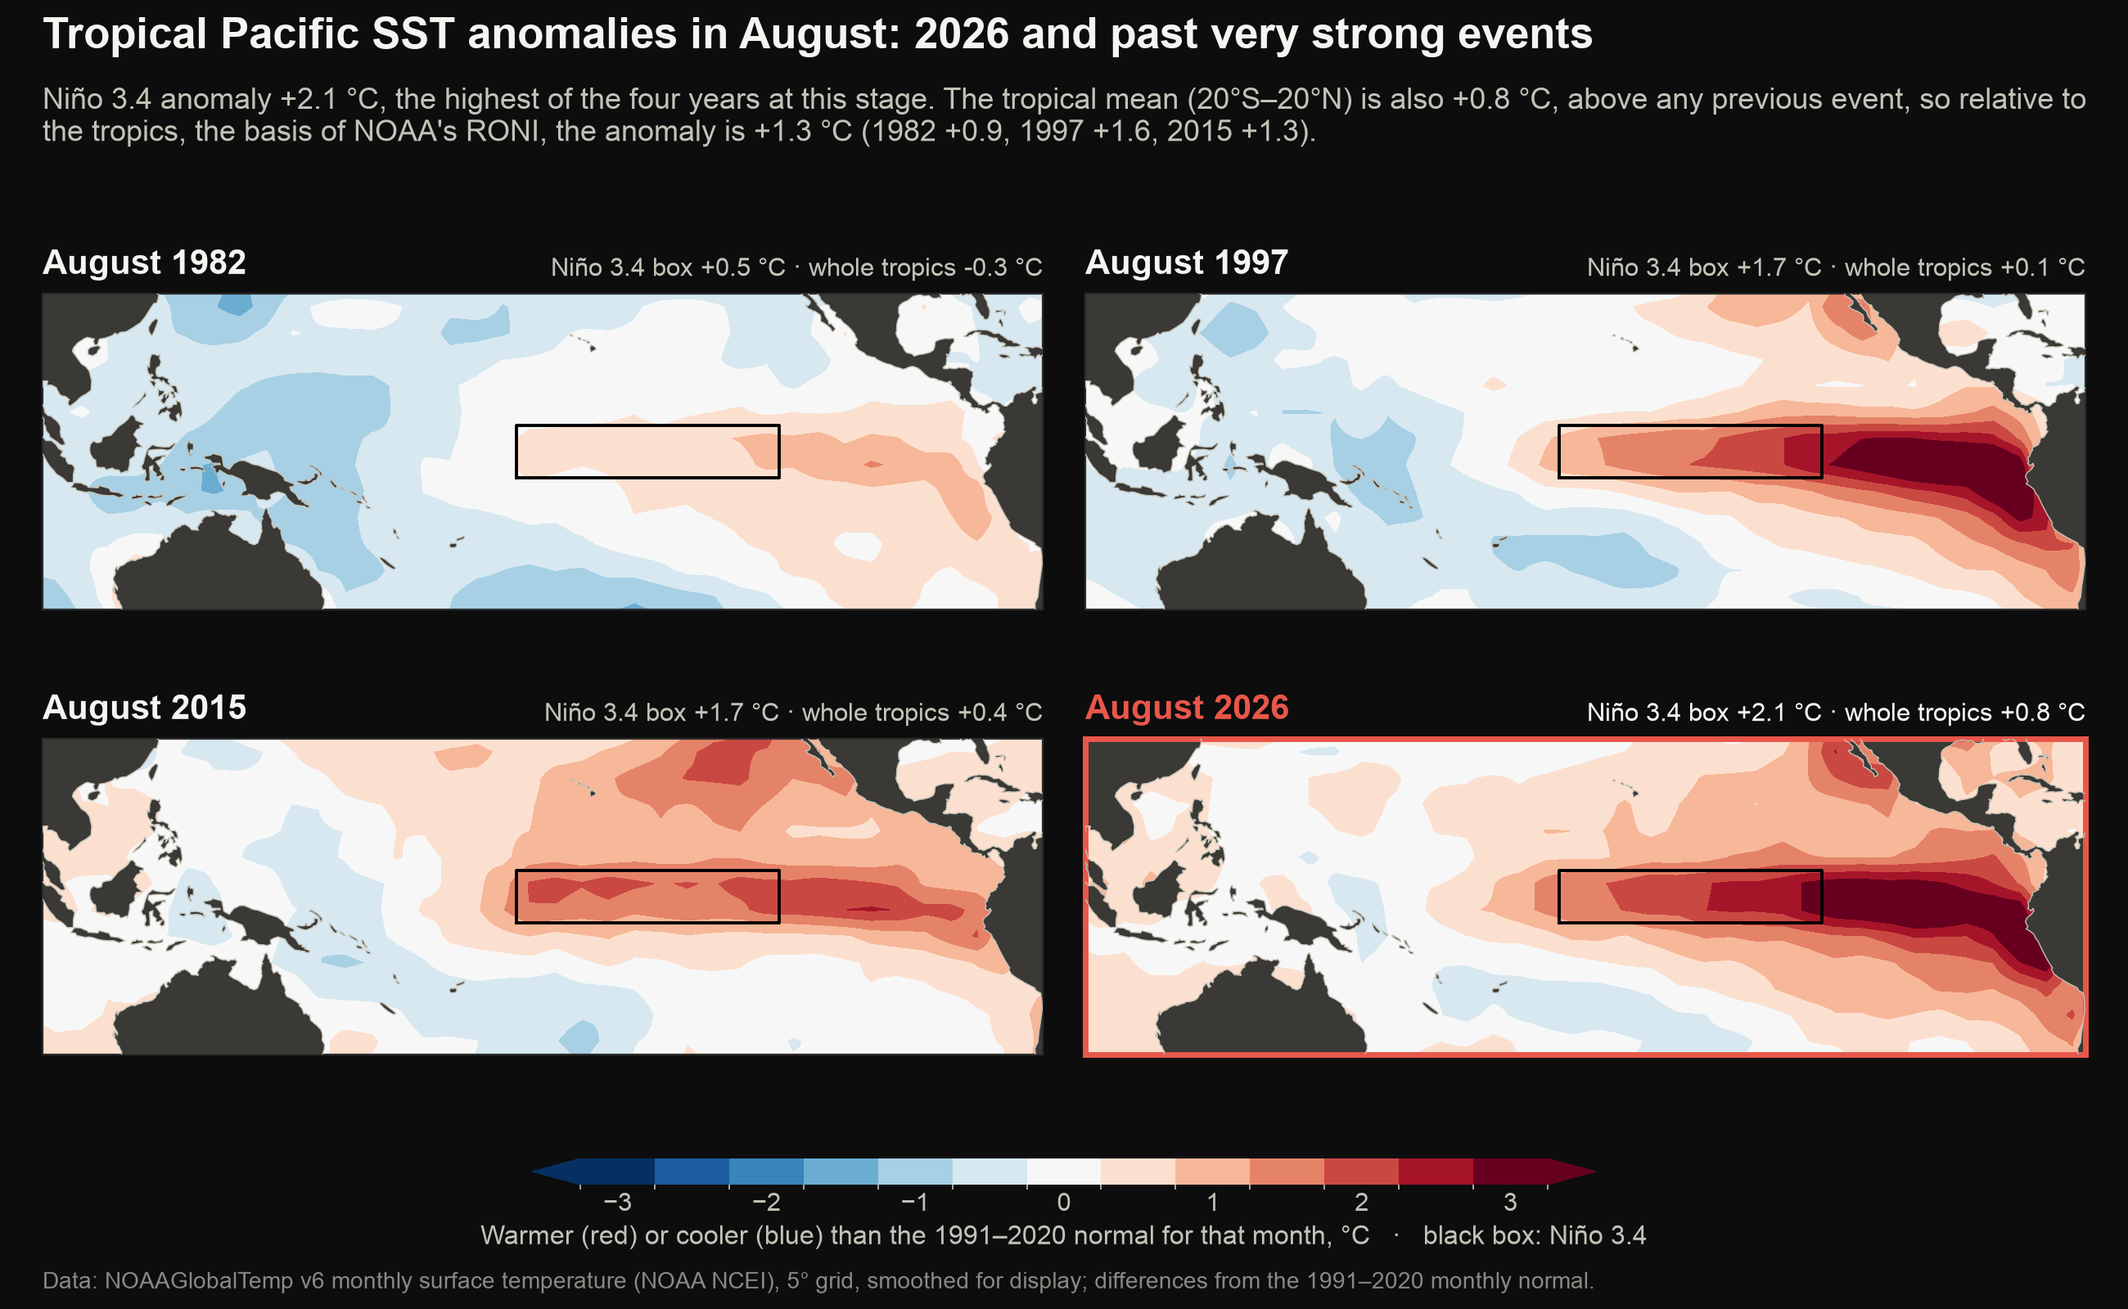
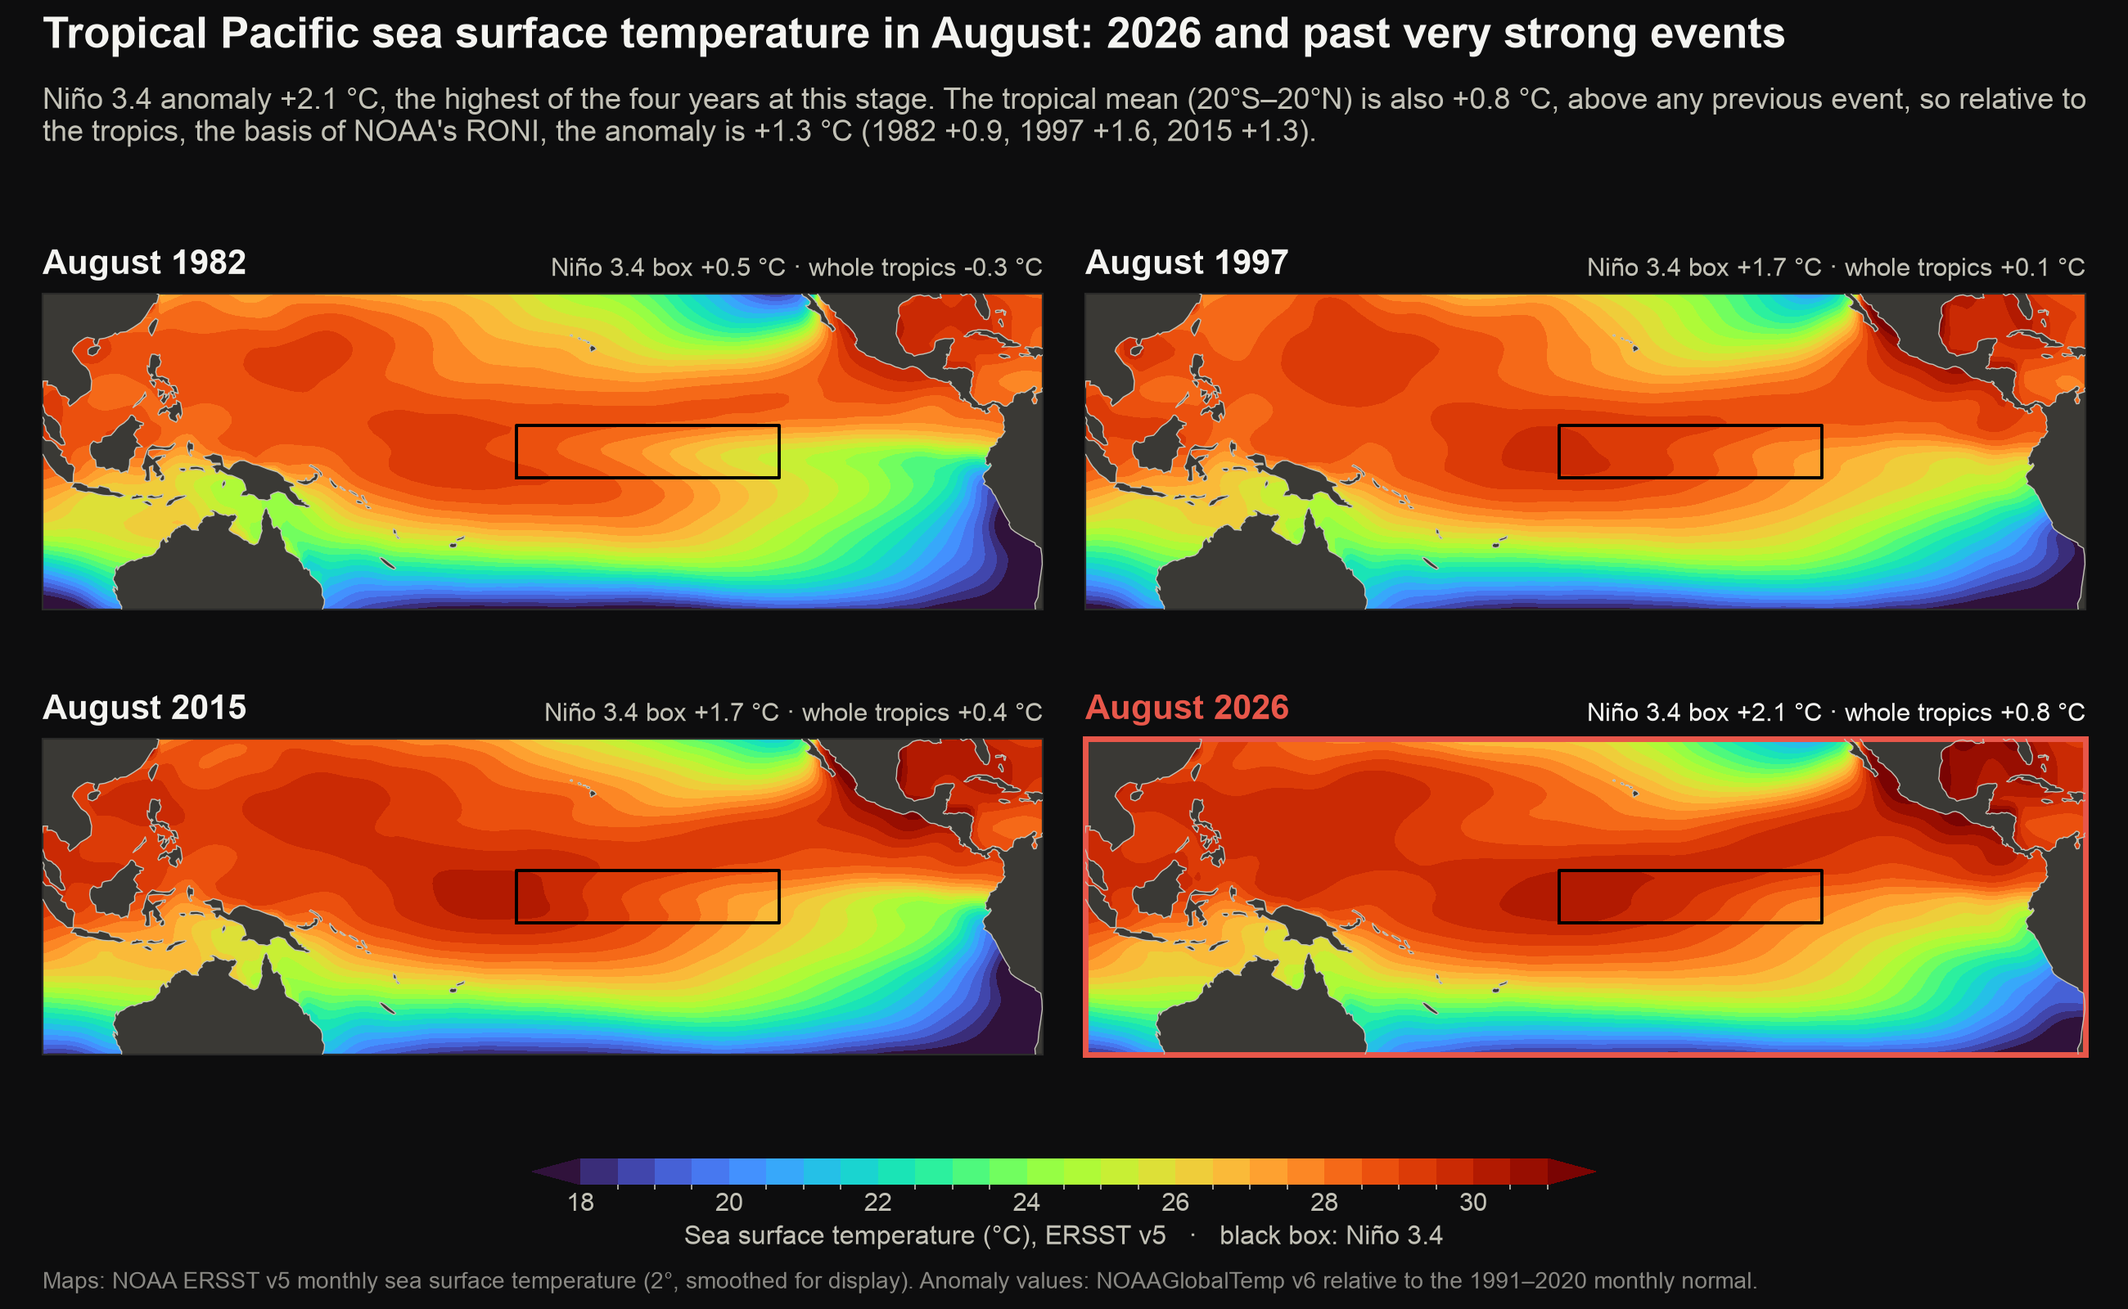
Use the rainbow temperature scale for ocean temperature figures
Surface maps, subsurface sections and both Hovmöllers now show actual ocean
temperature in the same turbo scale as the animations (shared temp_cmap);
headline numbers remain anomalies relative to 1991-2020.

diff --git a/compare2_surface.py b/compare2_surface.py
@@ -20,7 +20,7 @@ import pandas as pd
 import matplotlib.pyplot as plt
 from matplotlib.colors import BoundaryNorm
 
-from enso_common import (FIG_DIR, COLORS, NINO_BOXES, add_source, add_title, apply_style, save)
+from enso_common import (temp_cmap, FIG_DIR, COLORS, NINO_BOXES, add_source, add_title, apply_style, save)
 from enso_stats import load_gridded
 
 
@@ -49,19 +49,19 @@ def main():
     mon = temp.where(temp["time.month"] == month, drop=True)
     normal = mon.sel(time=slice("1991", "2020")).mean("time")
     now = args.years[-1]
+    sst = load_gridded("sst", args.refresh)                 # actual SST for the maps (ERSST v5)
 
     proj = ccrs.PlateCarree(central_longitude=190)
     fig = plt.figure(figsize=(13, 8.0))
-    levels = np.arange(-3.25, 3.5, 0.5)
-    cmap = plt.get_cmap("RdBu_r", len(levels) - 1)
-    norm = BoundaryNorm(levels, cmap.N)
+    levels = np.arange(18, 31.01, 0.5)
+    cmap, norm = temp_cmap(levels)
     n34 = NINO_BOXES["Niño 3.4"]
     stats = []
     for k, y in enumerate(args.years):
         r, c = divmod(k, 2)
         ax = fig.add_axes([0.02 + c * 0.49, 0.53 - r * 0.34, 0.47, 0.25], projection=proj)
-        field = (mon.sel(time=f"{y}-{month:02d}").squeeze("time") - normal)
-        field = field.interp(lat=np.arange(-39.5, 40, 1.0), lon=np.arange(0.5, 360, 1.0))
+        field = sst.sel(time=f"{y}-{month:02d}").squeeze("time")
+        field = field.ffill("lon").bfill("lon").interp(lat=np.arange(-39.5, 40, 1.0), lon=np.arange(0.5, 360, 1.0))
         data, lon = add_cyclic_point(field.values, coord=field["lon"].values)
         cf = ax.contourf(lon, field["lat"].values, data, levels=levels, cmap=cmap, norm=norm, extend="both",
                          transform=ccrs.PlateCarree())
@@ -85,22 +85,22 @@ def main():
                 va="bottom", ha="right")
 
     cax = fig.add_axes([0.25, 0.095, 0.5, 0.02])
-    cb = fig.colorbar(cf, cax=cax, orientation="horizontal", ticks=np.arange(-3, 3.5, 1))
+    cb = fig.colorbar(cf, cax=cax, orientation="horizontal", ticks=np.arange(18, 32, 2))
     cb.outline.set_visible(False)
     cb.ax.tick_params(labelsize=11, length=0)
-    cb.set_label("Warmer (red) or cooler (blue) than the 1991–2020 normal for that month, °C   ·   "
+    cb.set_label("Sea surface temperature (°C), ERSST v5   ·   "
                  "black box: Niño 3.4", fontsize=11.5, color=COLORS["text_2"])
 
     cur, past = stats[-1], stats[:-1]
     rel = {y: a - b for y, a, b in stats}            # Niño 3.4 minus the tropics: NOAA's relative view
-    headline = f"Tropical Pacific SST anomalies in {calendar.month_name[month]}: {now} and past very strong events"
+    headline = f"Tropical Pacific sea surface temperature in {calendar.month_name[month]}: {now} and past very strong events"
     rel_past = ", ".join(f"{y} {rel[y]:+.1f}" for y, _, _ in past)
     add_title(fig, headline,
               f"Niño 3.4 anomaly {cur[1]:+.1f} °C, the highest of the four years at this stage. The tropical mean "
               f"(20°S–20°N) is also {cur[2]:+.1f} °C, above any previous event, so relative to\nthe tropics, the "
               f"basis of NOAA's RONI, the anomaly is {rel[now]:+.1f} °C ({rel_past}).")
-    add_source(fig, "Data: NOAAGlobalTemp v6 monthly surface temperature (NOAA NCEI), 5° grid, smoothed for "
-               "display; differences from the 1991–2020 monthly normal.")
+    add_source(fig, "Maps: NOAA ERSST v5 monthly sea surface temperature (2°, smoothed for display). Anomaly values: "
+               "NOAAGlobalTemp v6 relative to the 1991–2020 monthly normal.")
     save(fig, args.out,
          alt=f"Four maps of tropical Pacific surface temperature in {calendar.month_name[month]} of "
              + ", ".join(str(y) for y in args.years) + ". " + "; ".join(

diff --git a/compare1_underwater.py b/compare1_underwater.py
@@ -21,7 +21,7 @@ import pandas as pd
 import matplotlib.pyplot as plt
 from matplotlib.colors import BoundaryNorm
 
-from enso_common import (FIG_DIR, GODAS_DIR, GODAS_RAW_DIR, COLORS, add_source, add_title, apply_style,
+from enso_common import (temp_cmap, FIG_DIR, GODAS_DIR, GODAS_RAW_DIR, COLORS, add_source, add_title, apply_style,
                          download_godas_year, godas_equatorial_section, lon_label, save)
 from matplotlib.ticker import FuncFormatter
 
@@ -61,11 +61,10 @@ def main():
     fig.subplots_adjust(top=1 - 1.55 / h, bottom=1.45 / h, left=0.08, right=0.85, hspace=0.30)
 
     step = 1.0
-    levels = np.arange(-args.vmax - step / 2, args.vmax + step, step)
-    cmap = plt.get_cmap("RdBu_r", len(levels) - 1)
-    norm = BoundaryNorm(levels, cmap.N)
+    levels = np.arange(12, 31.01, 0.5)                   # actual temperature, rainbow scale
+    cmap, norm = temp_cmap(levels)
     for ax, y, a, t, q in zip(axes, args.years, anoms, temps, heat):
-        cf = ax.contourf(lons, depths, a, levels=levels, cmap=cmap, norm=norm, extend="both")
+        cf = ax.contourf(lons, depths, t, levels=levels, cmap=cmap, norm=norm, extend="both")
         ax.contour(lons, depths, t, levels=[20], colors="black", linewidths=1.5)
         ax.set_ylim(depths.max(), depths.min())
         ax.set_yticks([50, 100, 150, 200])
@@ -90,22 +89,22 @@ def main():
                  color=COLORS["text_2"], ha="right")
 
     cax = fig.add_axes([0.3, 0.72 / h, 0.4, 0.13 / h])
-    cb = fig.colorbar(cf, cax=cax, orientation="horizontal", ticks=np.arange(-args.vmax, args.vmax + 1, 2))
+    cb = fig.colorbar(cf, cax=cax, orientation="horizontal", ticks=np.arange(12, 32, 2))
     cb.outline.set_visible(False)
     cb.ax.tick_params(labelsize=10.5, length=0)
-    cb.set_label("Warmer (red) or cooler (blue) than normal, °C   ·   black line: 20 °C, the bottom of the "
+    cb.set_label("Ocean temperature (°C)   ·   black line: 20 °C, the bottom of the "
                  "warm layer", fontsize=11, color=COLORS["text_2"])
 
     past = max(heat[:-1])
     ratio = heat[-1] / past if past > 0 else np.nan
-    add_title(fig, f"Equatorial subsurface temperature anomalies in {calendar.month_name[month]}: "
+    add_title(fig, f"Equatorial upper-ocean temperature in {calendar.month_name[month]}: "
                    f"{now} and past events",
               f"Depth–longitude sections, 2°S–2°N. The mean anomaly over 5–205 m between 180° and 80°W "
               f"is {heat[-1]:+.1f} °C, about {ratio:.1f} times the largest\nprevious value at the same stage "
               f"({max(heat[:-1]):+.1f} °C), indicating a substantial reservoir of subsurface heat to sustain "
               f"surface warming.")
-    add_source(fig, "Data: NCEP GODAS ocean reanalysis (NOAA), 2°S–2°N average; differences from the 1991–2020 "
-               "monthly normal.")
+    add_source(fig, "Data: NCEP GODAS ocean reanalysis (NOAA), 2°S–2°N average. Colours: temperature; values on the right: "
+               "anomaly relative to the 1991–2020 monthly normal.")
     save(fig, args.out,
          alt=f"Depth-by-longitude slices of the equatorial Pacific in {calendar.month_name[month]} of "
              + ", ".join(str(y) for y in args.years) + ". Average extra warmth in the top 200 m from 180° to "

diff --git a/fig6_equatorial_cross_section.py b/fig6_equatorial_cross_section.py
@@ -20,7 +20,7 @@ import matplotlib.pyplot as plt
 from matplotlib.colors import BoundaryNorm
 from matplotlib.ticker import FuncFormatter
 
-from enso_common import (FIG_DIR, GODAS_DIR, GODAS_RAW_DIR, COLORS, add_source, add_title, apply_style,
+from enso_common import (temp_cmap, FIG_DIR, GODAS_DIR, GODAS_RAW_DIR, COLORS, add_source, add_title, apply_style,
                          download_godas_year, godas_equatorial_section, lon_label, save)
 
 
@@ -56,12 +56,11 @@ def main():
                         left=0.09, right=0.86, hspace=0.32)
 
     step = 1.0
-    levels = np.arange(-args.vmax - step / 2, args.vmax + step, step)   # white bin centred on 0
-    cmap = plt.get_cmap("RdBu_r", len(levels) - 1)
-    norm = BoundaryNorm(levels, cmap.N)
+    levels = np.arange(12, 31.01, 0.5)                   # actual temperature, rainbow scale
+    cmap, norm = temp_cmap(levels)
 
     for ax, date, a, t in zip(axes, args.dates, anoms, temps):
-        cf = ax.contourf(lons, depths, a, levels=levels, cmap=cmap, norm=norm, extend="both")
+        cf = ax.contourf(lons, depths, t, levels=levels, cmap=cmap, norm=norm, extend="both")
         if not args.no_isotherm:
             cs = ax.contour(lons, depths, t, levels=[20], colors="black", linewidths=1.6)
         ax.set_ylim(depths.max(), depths.min())
@@ -82,22 +81,22 @@ def main():
                  color=COLORS["text_2"], ha="right")
 
     cax = fig.add_axes([0.88, 0.25, 0.018, 0.5])
-    cb = fig.colorbar(cf, cax=cax, ticks=np.arange(-args.vmax, args.vmax + 1, 2))
+    cb = fig.colorbar(cf, cax=cax, ticks=np.arange(12, 32, 2))
     cb.outline.set_visible(False)
-    cb.set_label("Warmer (red) or cooler (blue)\nthan normal, °C", fontsize=12)
+    cb.set_label("Ocean temperature (°C)", fontsize=12)
     if not args.no_isotherm:
         fig.text(0.875, 0.20, "— 20 °C line:\n   bottom of the\n   warm layer", fontsize=11,
                  va="top", color=COLORS["text"])
 
     years = {pd.Timestamp(d).year for d in args.dates}
     span = f"{pd.Timestamp(args.dates[0]):%B}–{pd.Timestamp(args.dates[-1]):%B %Y}"
-    add_title(fig, f"Equatorial subsurface temperature anomalies, {span}",
-              "Depth–longitude sections, 2°S–2°N, at two-month intervals. Warm anomalies form at depth, "
-              "propagate eastward along the\nthermocline as downwelling Kelvin waves and reach the surface "
-              "in the eastern Pacific.")
+    add_title(fig, f"Equatorial upper-ocean temperature, {span}",
+              "Depth–longitude sections, 2°S–2°N, at two-month intervals. As El Niño develops, the warm upper layer "
+              "deepens in the east\nand the 20 °C line (the base of the warm layer) flattens, carried by downwelling "
+              "Kelvin waves.")
     lat_txt = f"{abs(args.lat_band[0]):g}°S–{abs(args.lat_band[1]):g}°N"
-    add_source(fig, f"Data: NCEP GODAS ocean reanalysis, {lat_txt} average; anomalies vs. 1991–2020 "
-               "monthly normals.")
+    add_source(fig, f"Data: NCEP GODAS ocean reanalysis, {lat_txt} average; monthly mean temperature."
+               "")
     east = (lons >= 180) & (lons <= 280)
     save(fig, args.out,
          alt="Depth-by-longitude slices of the upper 200 m of the equatorial Pacific for "

diff --git a/eq2_heat_hovmoller.py b/eq2_heat_hovmoller.py
@@ -43,27 +43,27 @@ def main():
     fields, east_mean = {}, {}
     for y in args.years:
         months = available_months(y, args.refresh and y == args.years[-1])
-        depths, lons, anoms, _ = godas_equatorial_section(GODAS_DIR, [m.strftime("%Y-%m-%d") for m in months],
+        depths, lons, anoms, temps = godas_equatorial_section(GODAS_DIR, [m.strftime("%Y-%m-%d") for m in months],
                                                           lon_range=(LON_RANGE[0] - 1, LON_RANGE[1]))
         upper = np.nanmean(anoms, axis=1)                       # equal 10 m layers: plain mean over depth
-        fields[y] = (months, lons, upper)
+        fields[y] = (months, lons, np.nanmean(temps, axis=1))      # colours: actual mean temperature
         east = lons >= 180
         east_mean[y] = {m: float(np.nanmean(row[east])) for m, row in zip(months, upper)}
     now = args.years[-1]
     last = fields[now][0][-1]
     same = {y: east_mean[y][pd.Timestamp(f"{y}-{last.month:02d}-01")] for y in args.years[:-1]}
 
-    levels = np.arange(-4.25, 4.5, 0.5)
+    levels = np.arange(17, 28.01, 0.5)
     hovmoller_figure(
-        fields, levels, "RdBu_r", "Mean temperature anomaly, 5–205 m (°C), 2°S–2°N, relative to 1991–2020",
+        fields, levels, "turbo", "Mean ocean temperature, 5–205 m (°C), 2°S–2°N",
         title="Equatorial Pacific upper-ocean heat content during major El Niño events",
-        subtitle=f"Temperature anomalies averaged over the upper 200 m. Eastward-sloping warm bands are "
-                 f"downwelling Kelvin waves carrying heat toward South America.\nIn {last:%B} {now}, the "
-                 f"central–eastern Pacific (180°–80°W) averaged {east_mean[now][last]:+.1f} °C, compared with "
+        subtitle=f"Mean temperature of the upper 200 m. Warm water spreading east (eastward-sloping bands) marks "
+                 f"Kelvin waves carrying heat toward South America.\nIn {last:%B} {now}, the "
+                 f"central–eastern Pacific (180°–80°W) was {east_mean[now][last]:+.1f} °C above normal, compared with "
                  + join_and(f"{v:+.1f} °C in {y}" for y, v in same.items()) + ".",
-        source="Data: NCEP Global Ocean Data Assimilation System (GODAS), monthly; anomalies relative to the "
-               "1991–2020 monthly climatology.",
-        out=args.out, highlight=now, cbar_ticks=np.arange(-4, 4.5, 2),
+        source="Data: NCEP Global Ocean Data Assimilation System (GODAS), monthly. Values in the text are anomalies "
+               "relative to the 1991–2020 monthly climatology.",
+        out=args.out, highlight=now, cbar_ticks=np.arange(17, 29, 2),
         alt=f"Longitude–time diagrams of upper-200 m temperature anomalies along the equatorial Pacific for "
             + join_and(f"{y}–{str(y + 1)[-2:]}" for y in args.years)
             + f". Central–eastern Pacific mean in {last:%B}: {now} {east_mean[now][last]:+.1f} °C; "

diff --git a/eq1_sst_hovmoller.py b/eq1_sst_hovmoller.py
@@ -40,7 +40,7 @@ def main():
     for y in args.years:
         months = [m for m in event_months(y) if m in have]
         vals = anom.sel(time=months).values
-        fields[y] = (months, anom["lon"].values, vals)
+        fields[y] = (months, anom["lon"].values, band.sel(time=months).values)   # colours: actual SST
         east = anom["lon"].values >= 210
         peaks[y] = (months[-1], float(np.nanmax(vals[-1][east])))
     now = args.years[-1]
@@ -48,16 +48,16 @@ def main():
     same = {y: float(np.nanmax(anom.sel(time=f"{y}-{last.month:02d}-01").values[anom['lon'].values >= 210]))
             for y in args.years[:-1]}
 
-    levels = np.arange(-3.75, 4.0, 0.5)
+    levels = np.arange(20, 31.01, 0.5)
     hovmoller_figure(
-        fields, levels, "RdBu_r", "SST anomaly (°C), 2°S–2°N, relative to 1991–2020",
-        title="Equatorial Pacific sea surface temperature anomalies during major El Niño events",
-        subtitle=f"Monthly SST anomalies along the equator (2°S–2°N). By {last:%B} {now}, the maximum anomaly in "
+        fields, levels, "turbo", "Sea surface temperature (°C), 2°S–2°N",
+        title="Equatorial Pacific sea surface temperature during major El Niño events",
+        subtitle=f"Monthly sea surface temperature along the equator (2°S–2°N). By {last:%B} {now}, the maximum anomaly in "
                  f"the eastern Pacific reached {peaks[now][1]:+.1f} °C,\ncompared with "
                  + join_and(f"{v:+.1f} °C in {y}" for y, v in same.items()) + " at the same stage of those events.",
-        source="Data: NOAA Extended Reconstructed SST v5 (ERSST), monthly, 2° grid; anomalies relative to the "
-               "1991–2020 monthly climatology.",
-        out=args.out, highlight=now, cbar_ticks=np.arange(-3, 3.5, 1),
+        source="Data: NOAA Extended Reconstructed SST v5 (ERSST), monthly, 2° grid. Values in the text are anomalies "
+               "relative to the 1991–2020 monthly climatology.",
+        out=args.out, highlight=now, cbar_ticks=np.arange(20, 32, 2),
         alt=f"Longitude–time diagrams of sea surface temperature anomalies along the equatorial Pacific for "
             + ", ".join(f"{y}–{str(y + 1)[-2:]}" for y in args.years)
             + f". Maximum eastern Pacific anomaly in {last:%B}: {now} {peaks[now][1]:+.1f} °C; "

diff --git a/enso_equatorial.py b/enso_equatorial.py
@@ -58,8 +58,12 @@ def hovmoller_figure(fields, levels, cmap_name, cbar_label, title, subtitle, sou
     small map of the equator above it so the horizontal axis reads as geography."""
     years = list(fields)
     fig = plt.figure(figsize=(13, 10.4))
-    cmap = plt.get_cmap(cmap_name, len(levels) - 1)
-    norm = BoundaryNorm(levels, cmap.N)
+    if cmap_name == "turbo":
+        from enso_common import temp_cmap
+        cmap, norm = temp_cmap(levels)
+    else:
+        cmap = plt.get_cmap(cmap_name, len(levels) - 1)
+        norm = BoundaryNorm(levels, cmap.N)
     width, gap, left = 0.198, 0.022, 0.10
     p_bottom, p_height = 0.19, 0.52
     cf = None

diff --git a/enso_common.py b/enso_common.py
@@ -205,6 +205,14 @@ def save(fig, out_path, alt=None):
     print(f"Saved {out_path}")
 
 
+def temp_cmap(levels):
+    """Rainbow scale for actual ocean temperature (the classic El Niño map look), using matplotlib's
+    "turbo". Two extra colours for values below / above the range."""
+    from matplotlib.colors import BoundaryNorm
+    cmap = plt.get_cmap("turbo", len(levels) + 1)
+    return cmap, BoundaryNorm(levels, cmap.N, extend="both")
+
+
 def lon_label(x, _pos=None):
     x = float(x) % 360
     if np.isclose(x, 180):
